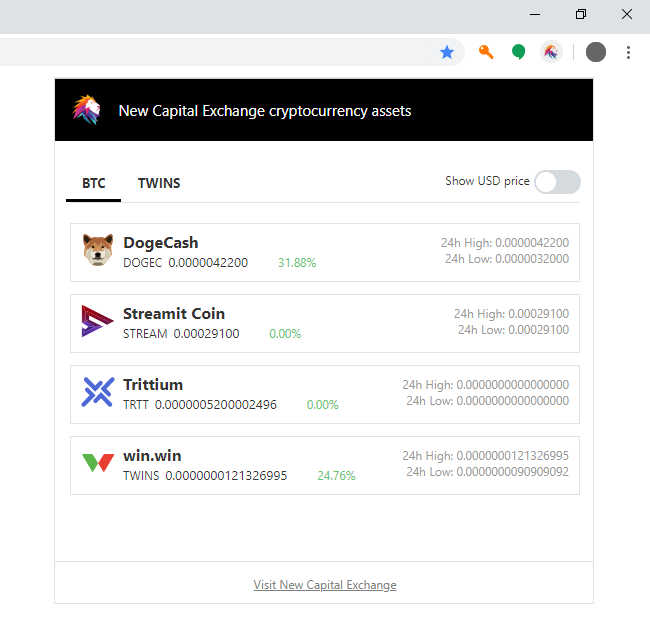
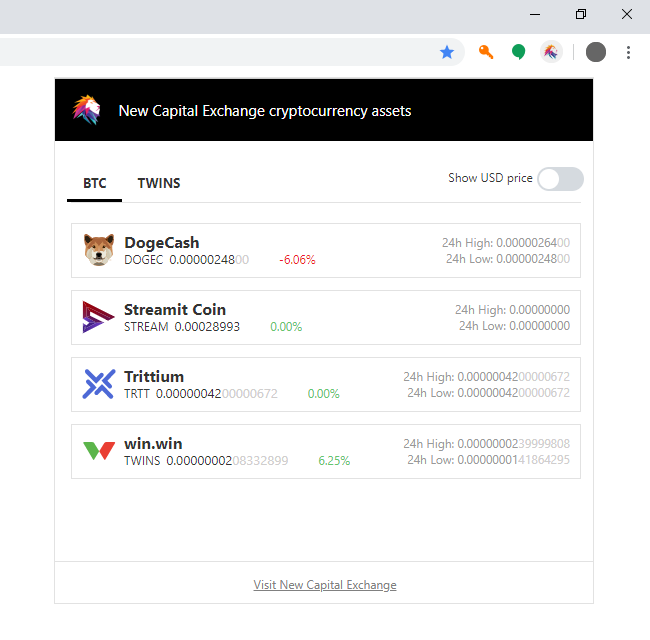
Display information improvements
- Code improvement
- Fetching full name from API
- BTC price with satoshi value emphasis
- Instructions for Opera browser added
- Version update
- Preview update
- Readme update

Changed region(s): [[0.0923, 0.375, 0.8923, 0.75], [0.6769, 0.25, 0.8923, 0.3125], [0.1231, 0.2812, 0.1538, 0.3125]]

diff --git a/src/js/main.js b/src/js/main.js
@@ -56,22 +56,27 @@ function generateAssets (data) {
                     var symbol = data[i].symbol;
                     var baseAsset = symbol.split('_')[0];
                     var quoteAsset = symbol.split('_')[1];
-                    var assetFullName = getAssetFullName(baseAsset);
+                    var assetFullName = getAssetFullName(baseAsset, data2);
                     var priceChangePercent = parseFloat(data[i].priceChangePercent).toFixed(2);
                     var lastPrice = data[i].lastPrice;
                     var highPrice = data[i].highPrice;
                     var lowPrice = data[i].lowPrice;
 
                     if(quoteAsset == "BTC"){
-                        var lastPriceUsd = data[i].lastPrice * btcUsd;
-                        var highPriceUsd = data[i].highPrice * btcUsd;
-                        var lowPriceUsd = data[i].lowPrice * btcUsd;
+                        var lastPriceUsd = lastPrice * btcUsd;
+                        var highPriceUsd = highPrice * btcUsd;
+                        var lowPriceUsd = lowPrice * btcUsd;
+
+                        // Satoshi emphasis
+                        var lastPrice = btcSatoshi(lastPrice);
+                        var highPrice = btcSatoshi(highPrice);
+                        var lowPrice = btcSatoshi(lowPrice);
                     }
 
                     if(quoteAsset == "TWINS"){
-                        var lastPriceUsd = data[i].lastPrice * twinsUsd;
-                        var highPriceUsd = data[i].highPrice * twinsUsd;
-                        var lowPriceUsd = data[i].lowPrice * twinsUsd;
+                        var lastPriceUsd = lastPrice * twinsUsd;
+                        var highPriceUsd = highPrice * twinsUsd;
+                        var lowPriceUsd = lowPrice * twinsUsd;
                     }
 
                     var priceChangeColor = "green";
@@ -87,11 +92,11 @@ function generateAssets (data) {
                             <div class="nce-asset-info">
                                 <img height="34" width="34" class="nce-asset-logo" src="/assets/images/${baseAsset}.svg" />
                                 <div class="nce-asset-full-name">${assetFullName}</div>
-                                <div><span class="nce-asset-symbol">${baseAsset}</span><span class="nce-asset-last-price"><span class="normal-price">${lastPrice}</span><span class="usd-price">${lastPriceUsd.toFixed(4)}$</span></span><span class="nce-asset-change ${priceChangeColor}">${priceChangePercent}%</span></div>
+                                <div><span class="nce-asset-symbol">${baseAsset}</span><span class="nce-asset-last-price"><span class="normal-price">${lastPrice}</span><span class="usd-price">${lastPriceUsd.toFixed(5)}$</span></span><span class="nce-asset-change ${priceChangeColor}">${priceChangePercent}%</span></div>
                             </div>
                             <div class="nce-asset-24h-info">
-                                <div>24h High: <span class="normal-price">${highPrice}</span><span class="usd-price">${highPriceUsd.toFixed(4)}$</span></div>
-                                <div>24h Low: <span class="normal-price">${lowPrice}</span><span class="usd-price">${lowPriceUsd.toFixed(4)}$</span></div>
+                                <div>24h High: <span class="normal-price">${highPrice}</span><span class="usd-price">${highPriceUsd.toFixed(5)}$</span></div>
+                                <div>24h Low: <span class="normal-price">${lowPrice}</span><span class="usd-price">${lowPriceUsd.toFixed(5)}$</span></div>
                             </div>
                         </li>`;
 
@@ -114,42 +119,42 @@ function generateAssets (data) {
 
 
 // Create asset full name from the base name
-function getAssetFullName(base) {
+function getAssetFullName(base, data) {
 
     var assetFullName = "";
+    var assetsData = data.symbols;;
 
-    switch (base) {
-        case "BCH":
-            assetFullName = "Bitcoin Cash";
-            break;
-        case "BTC":
-            assetFullName = "Bitcoin";
-            break;
-        case "FIX":
-            assetFullName = "Fix Coin";
-            break;
-        case "LTC":
-            assetFullName = "Litecoin";
-            break;
-        case "XEM":
-            assetFullName = "NEM";
-            break;
-        case "TWINS":
-            assetFullName = "win.win";
-            break;
-        case "TRTT":
-            assetFullName = "Trittium";
-            break;
-        case "DOGEC":
-            assetFullName = "DogeCash";
-            break;
-        case "STREAM":
-            assetFullName = "Streamit Coin";
-            break;
+    for (var i = 0; i < assetsData.length; i++) {
+
+        var symbolFromData = assetsData[i].symbol;
+        var baseAssetFromData = symbolFromData.split('_')[0];
+
+        if(base == baseAssetFromData) {
+            assetFullName = assetsData[i].baseAssetName;
+        }
+
     }
 
     return assetFullName;
 }
+
+
+// BTC price with satoshi emphasis
+function btcSatoshi(value) {
+
+    var splitValue = value.split('.');
+
+    var firstPart = splitValue[0];
+    var secondPart = splitValue[1];
+
+    var satoshi = secondPart.substr(0, 8);
+    var subSatoshi = '<span class="nce-saubsatoshi">' + secondPart.substr(8, 20) + '</span>';
+
+    var newValue = firstPart + '.' + satoshi + subSatoshi;
+
+    return newValue;
+}
+
 
 // Hide loader
 function hideLoader () {

diff --git a/src/css/styles.css b/src/css/styles.css
@@ -159,6 +159,9 @@ a {
 .nce-asset-last-price {
     font-size: 13px;
 }
+.nce-saubsatoshi {
+    color: #d0cece;
+}
 .nce-asset-symbol {
     margin-right: 6px;
 }
@@ -177,6 +180,7 @@ a {
 .nce-asset-change.red {
     color: #ed1c24;
 }
+
 
 
 /* Assets tabs */

diff --git a/README.md b/README.md
@@ -7,6 +7,13 @@
 4. Click on button "Load unpacked" (located in top left corner)
 5. Select the extension directory "src"
 
+## Opera extension installation from source
+1. Clone or download this repository
+2. Navigate to opera://extensions in Opera address bar
+3. Enable the "Developer mode" checkbox (located in top right corner)
+4. Click on button "Load unpacked" (located in top left corner)
+5. Select the extension directory "src"
+
 ## Firefox extension installation
 <a href="https://addons.mozilla.org/en-US/firefox/addon/new-capital-exchange-assets/" >Download extension from official Mozilla Add-ons website<a>
 
